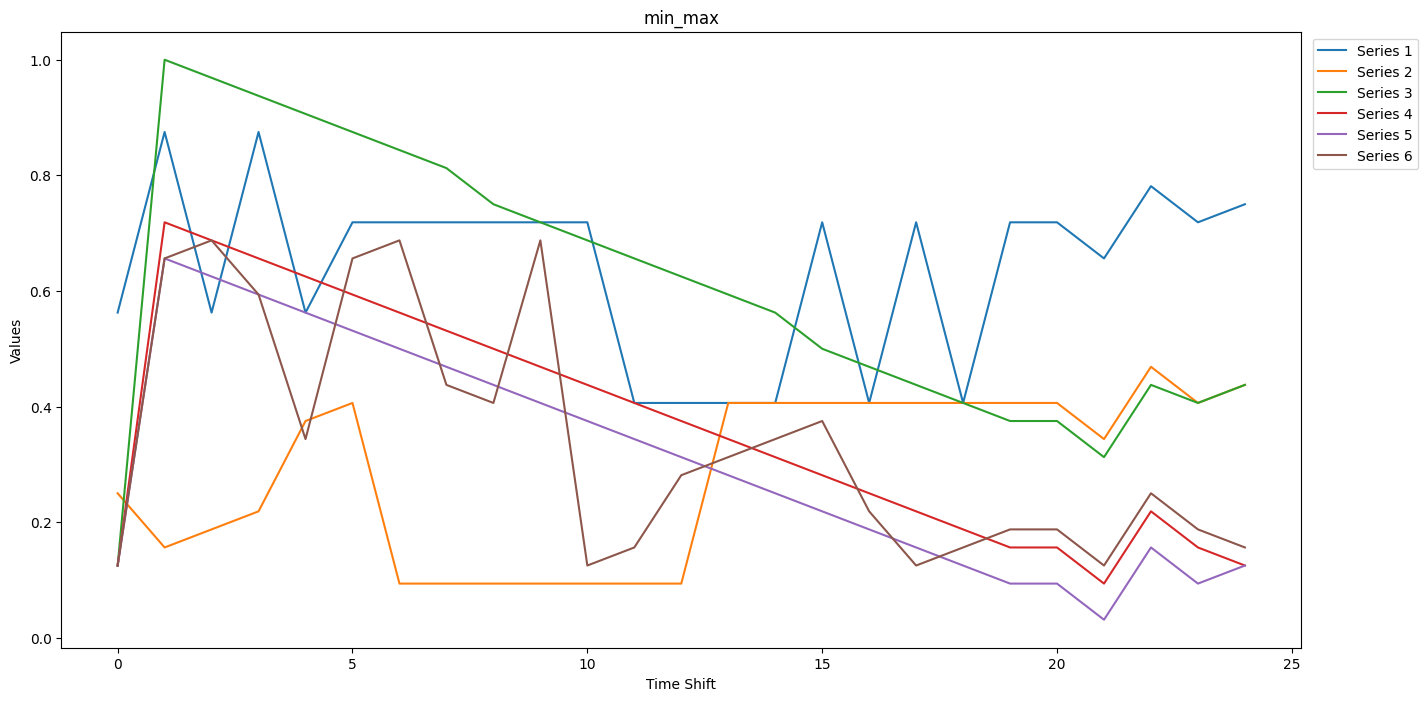
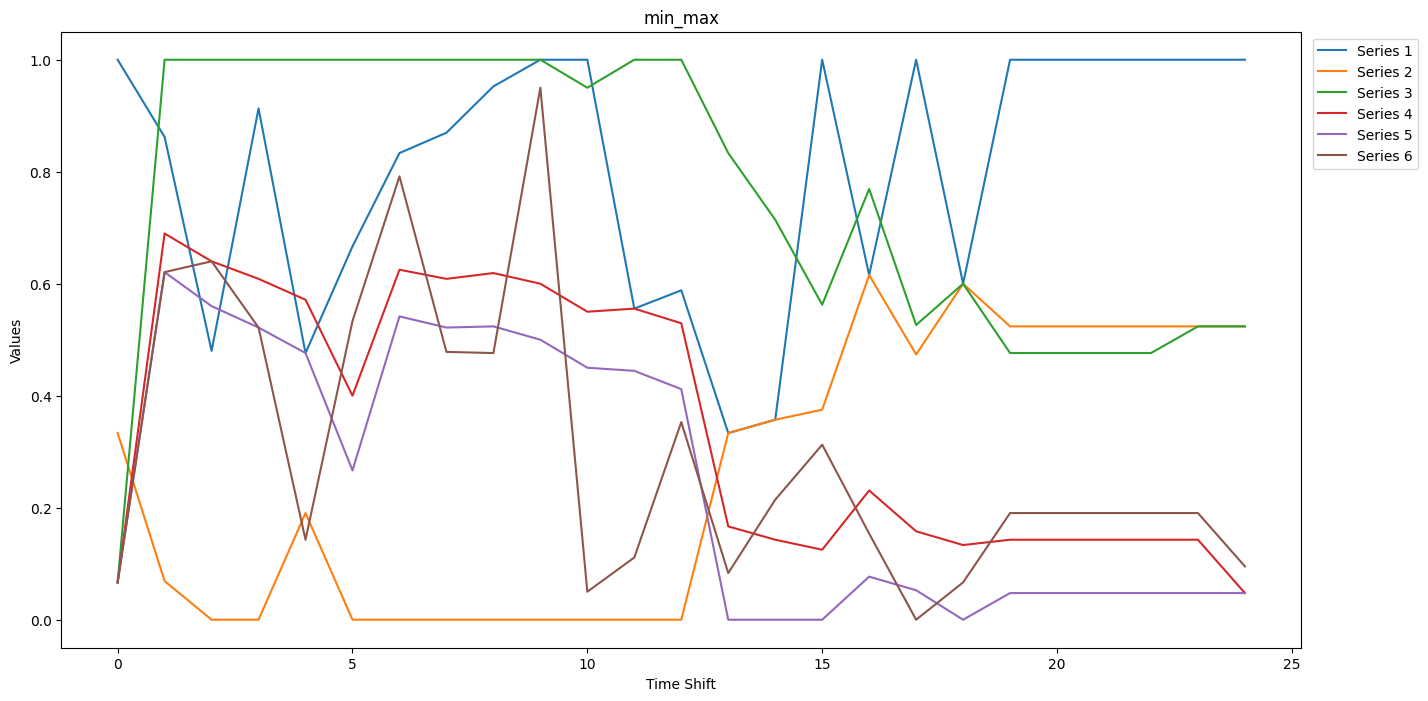
first implementation of the normalization min_max and z_score

diff --git a/imputegap/imputation/_imputation.py b/imputegap/imputation/_imputation.py
@@ -1,3 +1,5 @@
+import os
+
 import toml
 from imputegap.algorithms.cdrec import native_cdrec_param
 from imputegap.evaluation._evaluation import EvaluationGAP
@@ -13,12 +15,15 @@ class ImputationGAP:
         """
         self.config = self.load_toml()
 
-    def load_toml(self):
+    def load_toml(self, filepath = "../env/default_values.toml"):
         """
         Load default values of algorithms
         :return: the config of default values
         """
-        with open("../env/default_values.toml", "r") as file:
+        if os.path.exists(filepath) == False:
+            filepath = "./env/default_values.toml"
+
+        with open(filepath, "r") as file:
             config = toml.load(file)
         return config
 

diff --git a/imputegap/manager/_manager.py b/imputegap/manager/_manager.py
@@ -99,7 +99,13 @@ class TimeSeriesGAP:
         """
         print("Normalization of the original time series dataset with min/max...")
 
-        data_normalized = (self.ts - self.ts.min()) / (self.ts.max() - self.ts.min())
+        ts_min = self.ts.min(axis=0)  # Min for each series
+        ts_max = self.ts.max(axis=0)  # Max for each series
+
+        range_ts = ts_max - ts_min
+        range_ts[range_ts == 0] = 1  # To avoid division by zero for constant series
+
+        data_normalized = (self.ts - ts_min) / range_ts
         self.normalized_ts = data_normalized
 
         return self.normalized_ts
